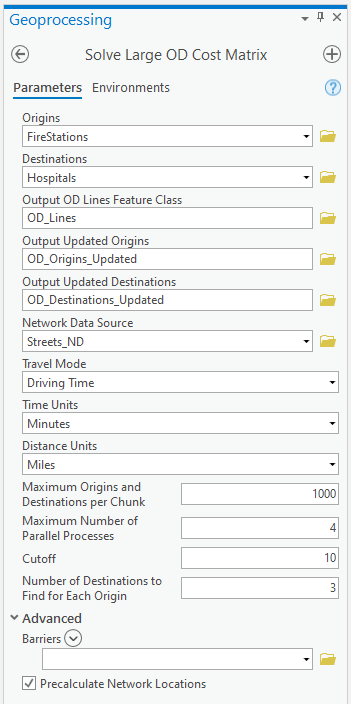
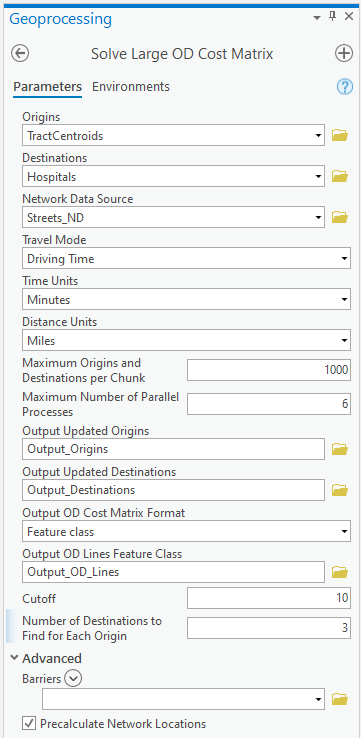
Update documentation to match tool updates

Changed region(s): [[0.0, 0.0, 0.9972, 1.0], [0.0, 0.8125, 0.0285, 0.875]]

diff --git a/README.md b/README.md
@@ -1,7 +1,9 @@
 
 # large-network-analysis-tools
 
-The tools and code samples here help you solve large network analysis problems in ArcGIS Pro. We have provided a python script that can solve a large origin destination cost matrix problem by chunking the input data, solving in parallel, and combining the results into a single output.
+The tools and code samples here help you solve large network analysis problems in ArcGIS Pro.
+
+We have provided a python script that can solve a large origin destination cost matrix problem by splitting the input data into chunks and solving the chunks in parallel. The results can be written to a feature class, a set of CSV files, or a set of Apache Arrow files.
 
 ## Features
 * The LargeNetworkAnalysisTools.pyt toolbox has a geoprocessing tool called "Solve Large OD Cost Matrix" that can be used to solve large origin destination cost matrix problems. You can run this tool as-is out of the box with no changes to the code.
@@ -9,7 +11,7 @@ The tools and code samples here help you solve large network analysis problems i
 
 ## Requirements
 
-* ArcGIS Pro 2.5 or later
+* ArcGIS Pro 2.5 or later (ArcGIS Pro 2.9 or later is recommended for improved performance and functionality)
 * One of the following three options:
   * A routable [network dataset](https://pro.arcgis.com/en/pro-app/help/analysis/networks/what-is-network-dataset-.htm) and the Network Analyst extension license
   * An ArcGIS Online account with routing privileges and sufficient [credits](https://pro.arcgis.com/en/pro-app/tool-reference/appendices/geoprocessing-tools-that-use-credits.htm#ESRI_SECTION1_3EF40A7C01C042D8A76DB9518B793E9E)
@@ -25,15 +27,20 @@ The tools and code samples here help you solve large network analysis problems i
 ### Solve Large OD Cost Matrix tool inputs
 - **Origins** (Python: *Origins*) - The feature class or layer containing the origins. Layers are referenced by catalog path, so selection sets and definition queries will be ignored. If you want to subset your data, please copy the subset to a separate feature class before running this tool.
 - **Destinations** (Python: *Destinations*) - The feature class or layer containing the destinations. Layers are referenced by catalog path, so selection sets and definition queries will be ignored. If you want to subset your data, please copy the subset to a separate feature class before running this tool.
-- **Output OD Lines Feature Class** (Python: *Output_OD_Lines_Feature_Class*) - Path to the output feature class that will contain the OD Cost Matrix Lines output computed by the tool. The schema of this feature class is described in the [arcpy documentation](https://pro.arcgis.com/en/pro-app/latest/arcpy/network-analyst/origindestinationcostmatrix-output-data-types.htm#ESRI_SECTION1_9FF9489173C741DD95472F21B5AD8374). Note that the OriginOID and DestinationOID fields refer to the ObjectIDs of the Output Updated Origins and Output Updated Destinations feature classes and not the original input data.
-- **Output Updated Origins** (Python: *Output_Updated_Origins*) - Path to the output feature class that will contain the updated origins, which may be spatially sorted and have added fields. The OriginOID field in the Output OD Lines Feature Class refers to the ObjectID of the Output Updated Origins and not the original input origins.
-- **Output Updated Destinations** (Python: *Output_Updated_Destinations*) - Path to the output feature class that will contain the updated destinations, which may be spatially sorted and have added fields. The DestinationOID field in the Output OD Lines Feature Class refers to the ObjectID of the Output Updated Destinations and not the original input destinations.
 - **Network Data Source** (Python: *Network_Data_Source*) - Network dataset, network dataset layer, or portal URL to use when calculating the OD Cost Matrix.
 - **Travel Mode** (Python: *Travel_Mode*) - Network travel mode to use when calculating the OD Cost Matrix
 - **Time Units** (Python: *Time_Units*) - The time units the output Total_Time field will be reported in.
 - **Distance Units** (Python: *Distance_Units*) - The distance units the output Total_Distance field will be reported in.
 - **Maximum Origins and Destinations per Chunk** (Python: *Max_Inputs_Per_Chunk*) - Defines the chunk size for parallel OD Cost Matrix calculations. For example, if you want to process a maximum of 1000 origins and 1000 destinations in a single chunk, set this parameter to 1000.
 - **Maximum Number of Parallel Processes** (Python: *Max_Processes*) - Defines the maximum number of parallel processes to run at once. Do not exceed the number of cores of your machine.
+- **Output Updated Origins** (Python: *Output_Updated_Origins*) - Path to the output feature class that will contain the updated origins, which may be spatially sorted and have added fields. The OriginOID field in the Output OD Lines Feature Class refers to the ObjectID of the Output Updated Origins and not the original input origins.
+- **Output Updated Destinations** (Python: *Output_Updated_Destinations*) - Path to the output feature class that will contain the updated destinations, which may be spatially sorted and have added fields. The DestinationOID field in the Output OD Lines Feature Class refers to the ObjectID of the Output Updated Destinations and not the original input destinations.
+- **Output OD Cost Matrix Format** (Python: *Output_Format*) - The desired output format for the OD Cost Matrix Lines. The available choices are:
+  - "Feature class" - A single, combined feature class. This option is the slowest to create and will likely fail for extremely large problems.
+  - "CSV files" - A set of .csv files. Each file represents the OD Cost Matrix Lines output, without shape geometry, for a chunk of origins and a chunk of destinations, using the naming scheme `ODLines_O_#_#_D_#_#.csv`, where the `#` signs represent the ObjectID ranges of the origins and destinations in the chunk. If you have set a value for the Number of Destinations to Find for Each Origin parameter, you may find some output files using the naming scheme `ODLines_O_#_#.csv` because results from all destinations have been combined into one file.
+  - "Apache Arrow files" - A set of Apache Arrow files. Each file represents the OD Cost Matrix Lines output, without shape geometry, for a chunk of origins and a chunk of destinations, using the naming scheme `ODLines_O_#_#_D_#_#.arrow`, where the `#` signs represent the ObjectID ranges of the origins and destinations in the chunk. If you have set a value for the Number of Destinations to Find for Each Origin parameter, you may find some output files using the naming scheme `ODLines_O_#_#.arrow` because results from all destinations have been combined into one file. This option is not available in versions of ArcGIS Pro prior to 2.9 and is not available if the network data source is a service.
+- **Output OD Lines Feature Class** (Python: *Output_OD_Lines_Feature_Class*) - Path to the output feature class that will contain the OD Cost Matrix Lines output computed by the tool if the Output OD Cost Matrix Format parameter value is "Feature class". The schema of this feature class is described in the [arcpy documentation](https://pro.arcgis.com/en/pro-app/latest/arcpy/network-analyst/origindestinationcostmatrix-output-data-types.htm#ESRI_SECTION1_9FF9489173C741DD95472F21B5AD8374). Note that the OriginOID and DestinationOID fields refer to the ObjectIDs of the Output Updated Origins and Output Updated Destinations feature classes and not the original input data.
+- **Output Folder** (Python: *Output_Folder*) - Path to a folder, which will be created by the tool, that will contain the CSV or Arrow files representing the OD Cost Matrix Lines results if the Output OD Cost Matrix Format parameter value is "CSV files" or "Apache Arrow files". The schema of the files is described in the [arcpy documentation](https://pro.arcgis.com/en/pro-app/latest/arcpy/network-analyst/origindestinationcostmatrix-output-data-types.htm#ESRI_SECTION1_9FF9489173C741DD95472F21B5AD8374), although the shape, OriginName, and DestinationName fields are not included in these outputs. Note that the OriginOID and DestinationOID fields refer to the ObjectIDs of the Output Updated Origins and Output Updated Destinations feature classes and not the original input data.
 - **Cutoff** (Python: *Cutoff*) - Impedance cutoff limiting the search distance for each origin. For example, you could set up the problem to find only destinations within a 15 minute drive time of the origins. This parameter is optional. Leaving it blank uses no cutoff.
   - If your travel mode has time-based impedance units, Cutoff represents a time and is interpreted in the units specified in the Time Units parameter.
   - If your travel mode has distance-based impedance units, Cutoff represents a distance and is interpreted in the units specified in the Distance Units parameter.
@@ -65,9 +72,10 @@ Then, you can call the tool in your script:
 Here is the full tool signature:
 ```python
 arcpy.LargeNetworkAnalysisTools.SolveLargeODCostMatrix(
-    Origins, Destinations, Output_OD_Lines_Feature_Class, Output_Updated_Origins, Output_Updated_Destinations,
-    Network_Data_Source, Travel_Mode, Time_Units, Distance_Units, Max_Inputs_Per_Chunk, Max_Processes, Cutoff,
-    Num_Destinations, Barriers, Precalculate_Network_Locations
+    Origins, Destinations, Network_Data_Source, Travel_Mode, Time_Units, Distance_Units,
+    Max_Inputs_Per_Chunk, Max_Processes, Output_Updated_Origins, Output_Updated_Destinations,
+    Output_Format, Output_OD_Lines_Feature_Class, Output_Folder,
+    Cutoff, Num_Destinations, Barriers, Precalculate_Network_Locations
 )
 ```
 
@@ -78,7 +86,7 @@ You can also run the provided scripts by directly calling solve_large_odcm.py fr
 The tool consists of several scripts:
 - **LargeNetworkAnalysisTools.pyt**: This defines the python toolbox and the tool as you see it in the ArcGIS Pro UI. It does some minimal parameter validation and calls solve_large_odcm.py to actually run the analysis.
 - **solve_large_odcm.py**: This defines a class, `ODCostMatrixSolver()`, that validates and preprocesses the inputs and then calls parallel_odcm.py as a subprocess to do the parallel solves. The class also parses log messages from the parallel_odcm.py and writes them out as geoprocessing messages.
-- **parallel_odcm.py**: This script chunks the inputs, solves the OD Cost Matrices in parallel, and combines the results.
+- **parallel_odcm.py**: This script chunks the inputs, solves the OD Cost Matrices in parallel, and postprocesses the results.
 - **od_config.py**: In this file, you can override some OD Cost Matrix analysis settings that are not included in the tool dialog. This is provided to make the scripts easier to customize so you don't have to dig through the more complex parts of the code to find these simple settings.
 - **helpers.py**: Contains some helper methods and global variables.
 
